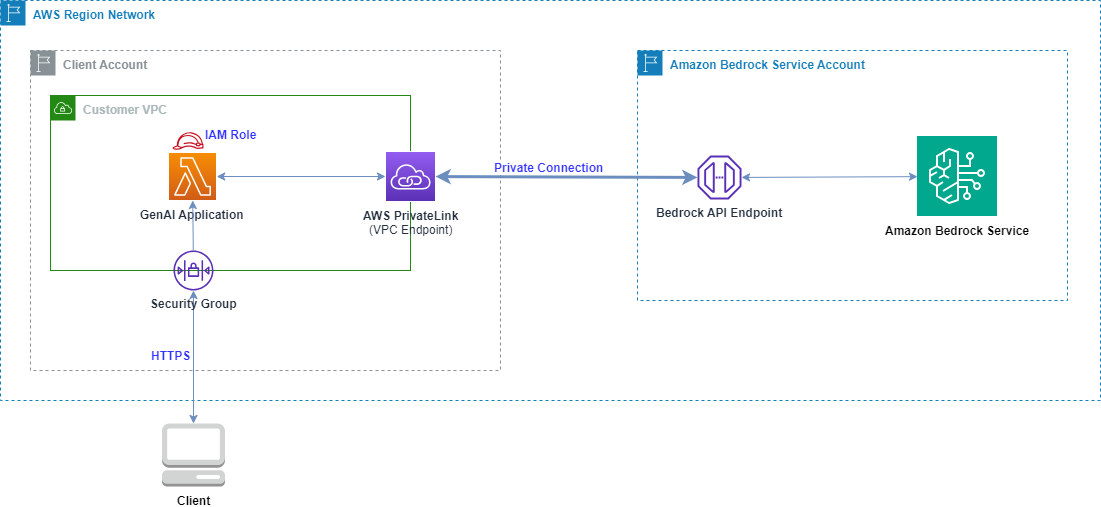
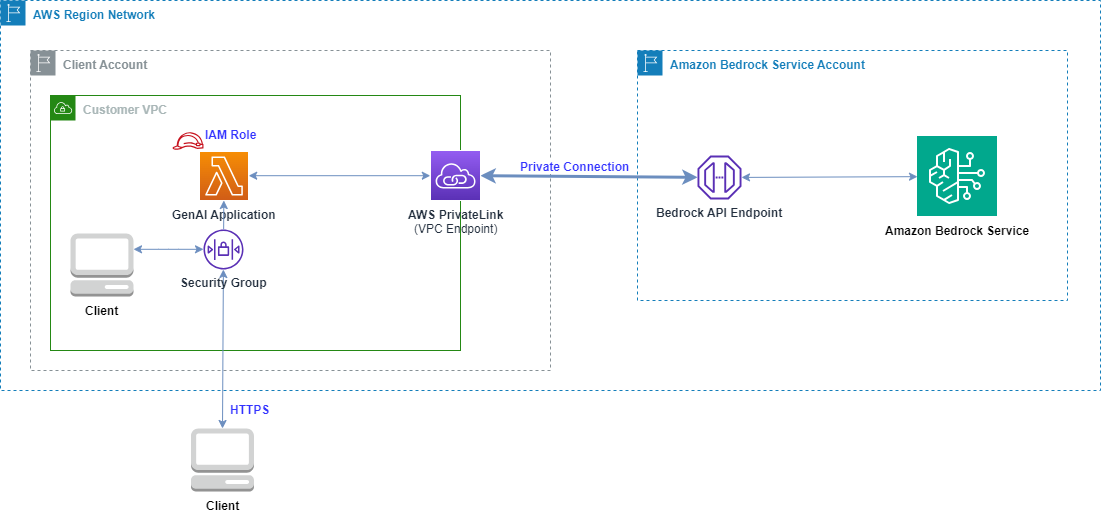
updates

diff --git a/posts/build-GenAI-app-Bedrock-privateLink/index.md b/posts/build-GenAI-app-Bedrock-privateLink/index.md
@@ -13,15 +13,17 @@ date: 2023-12-20
 
 We probably would all agree that **Data Privacy** is a topic that can't be neglected in the context of data analytics and machine learning. **Generative AI** is rocking the world, but without sufficient security controls, Generative AI tools could be vulnerable to data exfiltration, resulting in unauthorized access or disclosure of sensitive information, potentially leading to privacy violations and possible misuse of both sensitive personal data or intellectual property.
 
-[Amazon Bedrock](https://aws.amazon.com/bedrock/security-compliance/), a fully managed service, can help you build generative AI applications that support data security and compliance standards, including GDPR and HIPAA.
+[Amazon Bedrock](https://aws.amazon.com/bedrock/security-compliance/), a fully managed service, allows you to build generative AI applications that support data security and compliance standards, including GDPR and HIPAA.
 
 With **Amazon Bedrock**: ***(not limited to)***
 * Your **content** (e.g. prompt data, fine-tuning data, vector store data with RAG (***Retrieval Augmented Generation***) etc.) is not shared with 3rd party model providers (including AWS).
 * You can use **AWS PrivateLink** to establish private connectivity between your Foundation Models (FM) and on-premises networks or your AWS VPC (Virtual Private Cloud), without exposing your traffic to the Internet. (***this blog post's focus***)
 * Your data is always **encrypted in transit** (***TLS1.2***) and **at rest**. You can use your keys or [AWS KMS (Key Management Service)](https://aws.amazon.com/kms/) keys to encrypt the data.
+* You can encrypt and store customize (fine-tuned) models with KMS key that either managed by AWS or yourself.
+  You can further configure VPC for fine-tuning jobs with Bedrock, which prevent the training data from being accessible over the internet.
 * **Potential misuse** is prevented by [Bedrock abuse detection](https://docs.aws.amazon.com/bedrock/latest/userguide/abuse-detection.html). This feature automatically (***no human review or access to user inputs or model outputs***) identify and mitigate potential violations of AWS's [Acceptable Use Policy (AUP)](https://aws.amazon.com/aup/) and [Responsible AI Policy](https://aws.amazon.com/machine-learning/responsible-ai/policy/), or a 3rd party model provider's AUP.
 
-As you can see, Amazon Bedrock provides you comprehensive security and compliance capabilities. Let's dive a bit deeper on using **AWS PrivateLink** to establish private connectivity between   your VPC and the FMs or your fine-tuned models.
+As you can see, Amazon Bedrock provides you comprehensive security and compliance capabilities. Let's dive a bit deeper on using **AWS PrivateLink** to establish private connectivity between your VPC and the FMs or your fine-tuned models.
 
 ## AWS PrivateLink
 
@@ -38,7 +40,7 @@ The figure below shows how it works. **Interface VPC endpoint**, powered by **Pr
 Security benefits of AWS PrivateLink:
 - **Regulatory Compliance** (e.g. HIPAA, PCI) - prevent sensitive data (e.g.PII) from traversing the internet.
 - **Privately access AWS services** - connect your VPC to AWS services privately. 
-         You can configure security groups of services (e.g. Lambda) on your VPC, so to control the access of the corresponding AWS services (e.g. Bedrock) as well.
+  You can configure security groups of services (e.g. Lambda) on your VPC, so to control the access to the corresponding AWS services (e.g. Bedrock) as well.
 
 In addition to the security benefit, AWS PrivateLink also makes it easier to connect AWS services across different AWS accounts and VPCs to simplify your network architecture.
 
@@ -46,7 +48,7 @@ In addition to the security benefit, AWS PrivateLink also makes it easier to con
 
 There are many patterns to build up GenAI application with Amazon Bedrock, here let's focus on demonstration of how to establish PrivateLink with Bedrock, with Amazon Lambda function as the key component of a GenAI application.
 
-The figure below shows the reference architecture, where the client (in VPC or on-premise) can access to the GenAI application via AWS PrivateLink. Client can be on-premise or on AWS VPC, which can be the same or different from where the GenAI application located. Be aware that the GenAI application should be on the same region with the connected Amazon Bedrock. As the time of writing this blog post, Amazon Bedrock is not support in all the AWS Regions, so remember to check the [supported regions](https://docs.aws.amazon.com/bedrock/latest/userguide/what-is-bedrock.html#bedrock-regions).
+The figure below shows the reference architecture, where the client can access to the GenAI application via AWS PrivateLink. Client can be on-premise or on AWS VPC, which can be the same or different from where the GenAI application located. Be aware that the GenAI application should be on the same region with the connected Amazon Bedrock. As the time of writing this blog post, Amazon Bedrock is not support in all the AWS Regions, so remember to check the [supported regions](https://docs.aws.amazon.com/bedrock/latest/userguide/what-is-bedrock.html#bedrock-regions).
 
 ![PrivateLink to Bedrock](images/lambda-bedrock-architecture.png)
 
@@ -54,7 +56,7 @@ Here is one way of building this up:
 
 1. Create Lambda functions as part of your GenAI application interacting with Foundation Models via Bedrock.
 
-[Lambda Function](images/lambda.png)
+![Lambda Function](images/lambda.png)
 
 I use this [example](https://github.com/mavi888/sam-bedrock-lambda) as a simplified GenAI application, which interact with Amazon Bedrock to generate text.
 
@@ -62,8 +64,8 @@ I use this [example](https://github.com/mavi888/sam-bedrock-lambda) as a simplif
 
    2.1 From VPC console.
 
-[VPC-1](images/vpc_1.png)
-[VPC-2](images/vpc_2.png)
+![VPC-1](images/vpc_1.png)
+![VPC-2](images/vpc_2.png)
 
 **Note:**
   - When creating VPC, choose Tenancy with "Default", since Lambda doesn't work with "[Dedicated](https://docs.aws.amazon.com/AWSEC2/latest/UserGuide/dedicated-instance.html)" tenancy for now.
@@ -78,15 +80,15 @@ I use this [example](https://github.com/mavi888/sam-bedrock-lambda) as a simplif
  aws ec2 describe-vpc-endpoint-services --service-names com.amazonaws.<region>.bedrock-runtime --region <region>
 ```
 
-[Bedrock-AZ](images/bedrock_az.png)
+![Bedrock-AZ](images/bedrock_az.png)
 
     2.2 From CLI command 
 
 3. Create Security Group in the VPC with input rule with **HTTPS**.
    Limit the source IP addresses if you only need to allow list of specific IP address to access your application.
 
-[SG-1](images/sg_1.png)
-[SG-2](images/sg_1.png)
+![SG-1](images/sg_1.png)
+![SG-2](images/sg_1.png)
 
    
 4. Connect your Lambda functions to your VPC
@@ -97,16 +99,16 @@ Lambda function is by default running on the Lambda service VPC with public inte
 
   - Get the Lambda function execution role from here:
 
-[Lambda-Role-1](images/lambda-role-1.png)
+![Lambda-Role-1](images/lambda-role-1.png)
 
   - In [AWS IAM(Identity & Access Management)](https://aws.amazon.com/iam/?nc=sn&loc=0) console, add **AWS managed policy - AWSLambdaVPCAccessExecutionRole**
 
-[Lambda-Role-2](images/lambda-role-2.png)
+![Lambda-Role-2](images/lambda-role-2.png)
 
   b. Configure Lambda VPC access
   Add the private subnets and security group to the Lambda function's VPC configuration.
 
-[Lambda-VPC](images/lambda-vpc.png)
+![Lambda-VPC](images/lambda-vpc.png)
 
 Now the Lambda function is connected with VPC. You can repeat the same steps to other Lambda functions.
 
@@ -114,25 +116,46 @@ Now the Lambda function is connected with VPC. You can repeat the same steps to 
 
   In order to connect your VPC and Amazon Bedrock using AWS PrivateLink, you need to create an [**interface endpoint**](https://docs.aws.amazon.com/vpc/latest/privatelink/create-interface-endpoint.html#create-interface-endpoint-aws).
 
-  [Bedrock-VPC-endpoint-1](images/bedrock-endpoint-1.png)
+  ![Bedrock-VPC-endpoint-1](images/bedrock-endpoint-1.png)
 
-  [Bedrock-VPC-endpoint-2](images/bedrock-endpoint-2.png)
+  ![Bedrock-VPC-endpoint-2](images/bedrock-endpoint-2.png)
 
-  [Bedrock-VPC-endpoint-3](images/bedrock-endpoint-3.png)
+  ![Bedrock-VPC-endpoint-3](images/bedrock-endpoint-3.png)
 
   We can further control Bedrock VPC endpoint access via [endpoint policy](https://docs.aws.amazon.com/vpc/latest/privatelink/vpc-endpoints-access.html).
 
+```go
+// An example of a custom endpoint policy, which grants access to listed Amazon Bedrock actions for all principals on all resources.
+{
+   "Statement": [
+      {
+         "Principal": "*",
+         "Effect": "Allow",
+         "Action": [
+            "bedrock:InvokeModel",
+            "bedrock:InvokeModelWithResponseStream"
+         ],
+         "Resource":"*"
+      }
+   ]
+}
+```
 
-
-6. Test your GenAI application
+6. Test your GenAI application with PrivateLink connection to Amazon Bedrock
 
 After all the above setup, you can test your GenAI application by invoking lambda functions.
 
-  [Test](images/test.png)
+You can create a test from Lambda console:
+  ![Test-1](images/test_1.png)
+  ![Test-2](images/test_2.png)
 
+You can see detailed logs and trouble-shooting (if any) from Lambda function's corresponding CloudWatch logs.
+  ![Test-3](images/test_3.png)
+
+You can also 
 
 ## Conclusion
 
-AWS PrivateLink is a powerful service to privately connect your VPC with Amazon Bedrock. 
-You can further control who can access your application via Security Group, and endpoint policy.
+AWS PrivateLink is a powerful service to privately connect your VPC with Amazon Bedrock.
+With AWS PrivateLink, you can further control who can access your application via Security Group, and endpoint policy.
 
